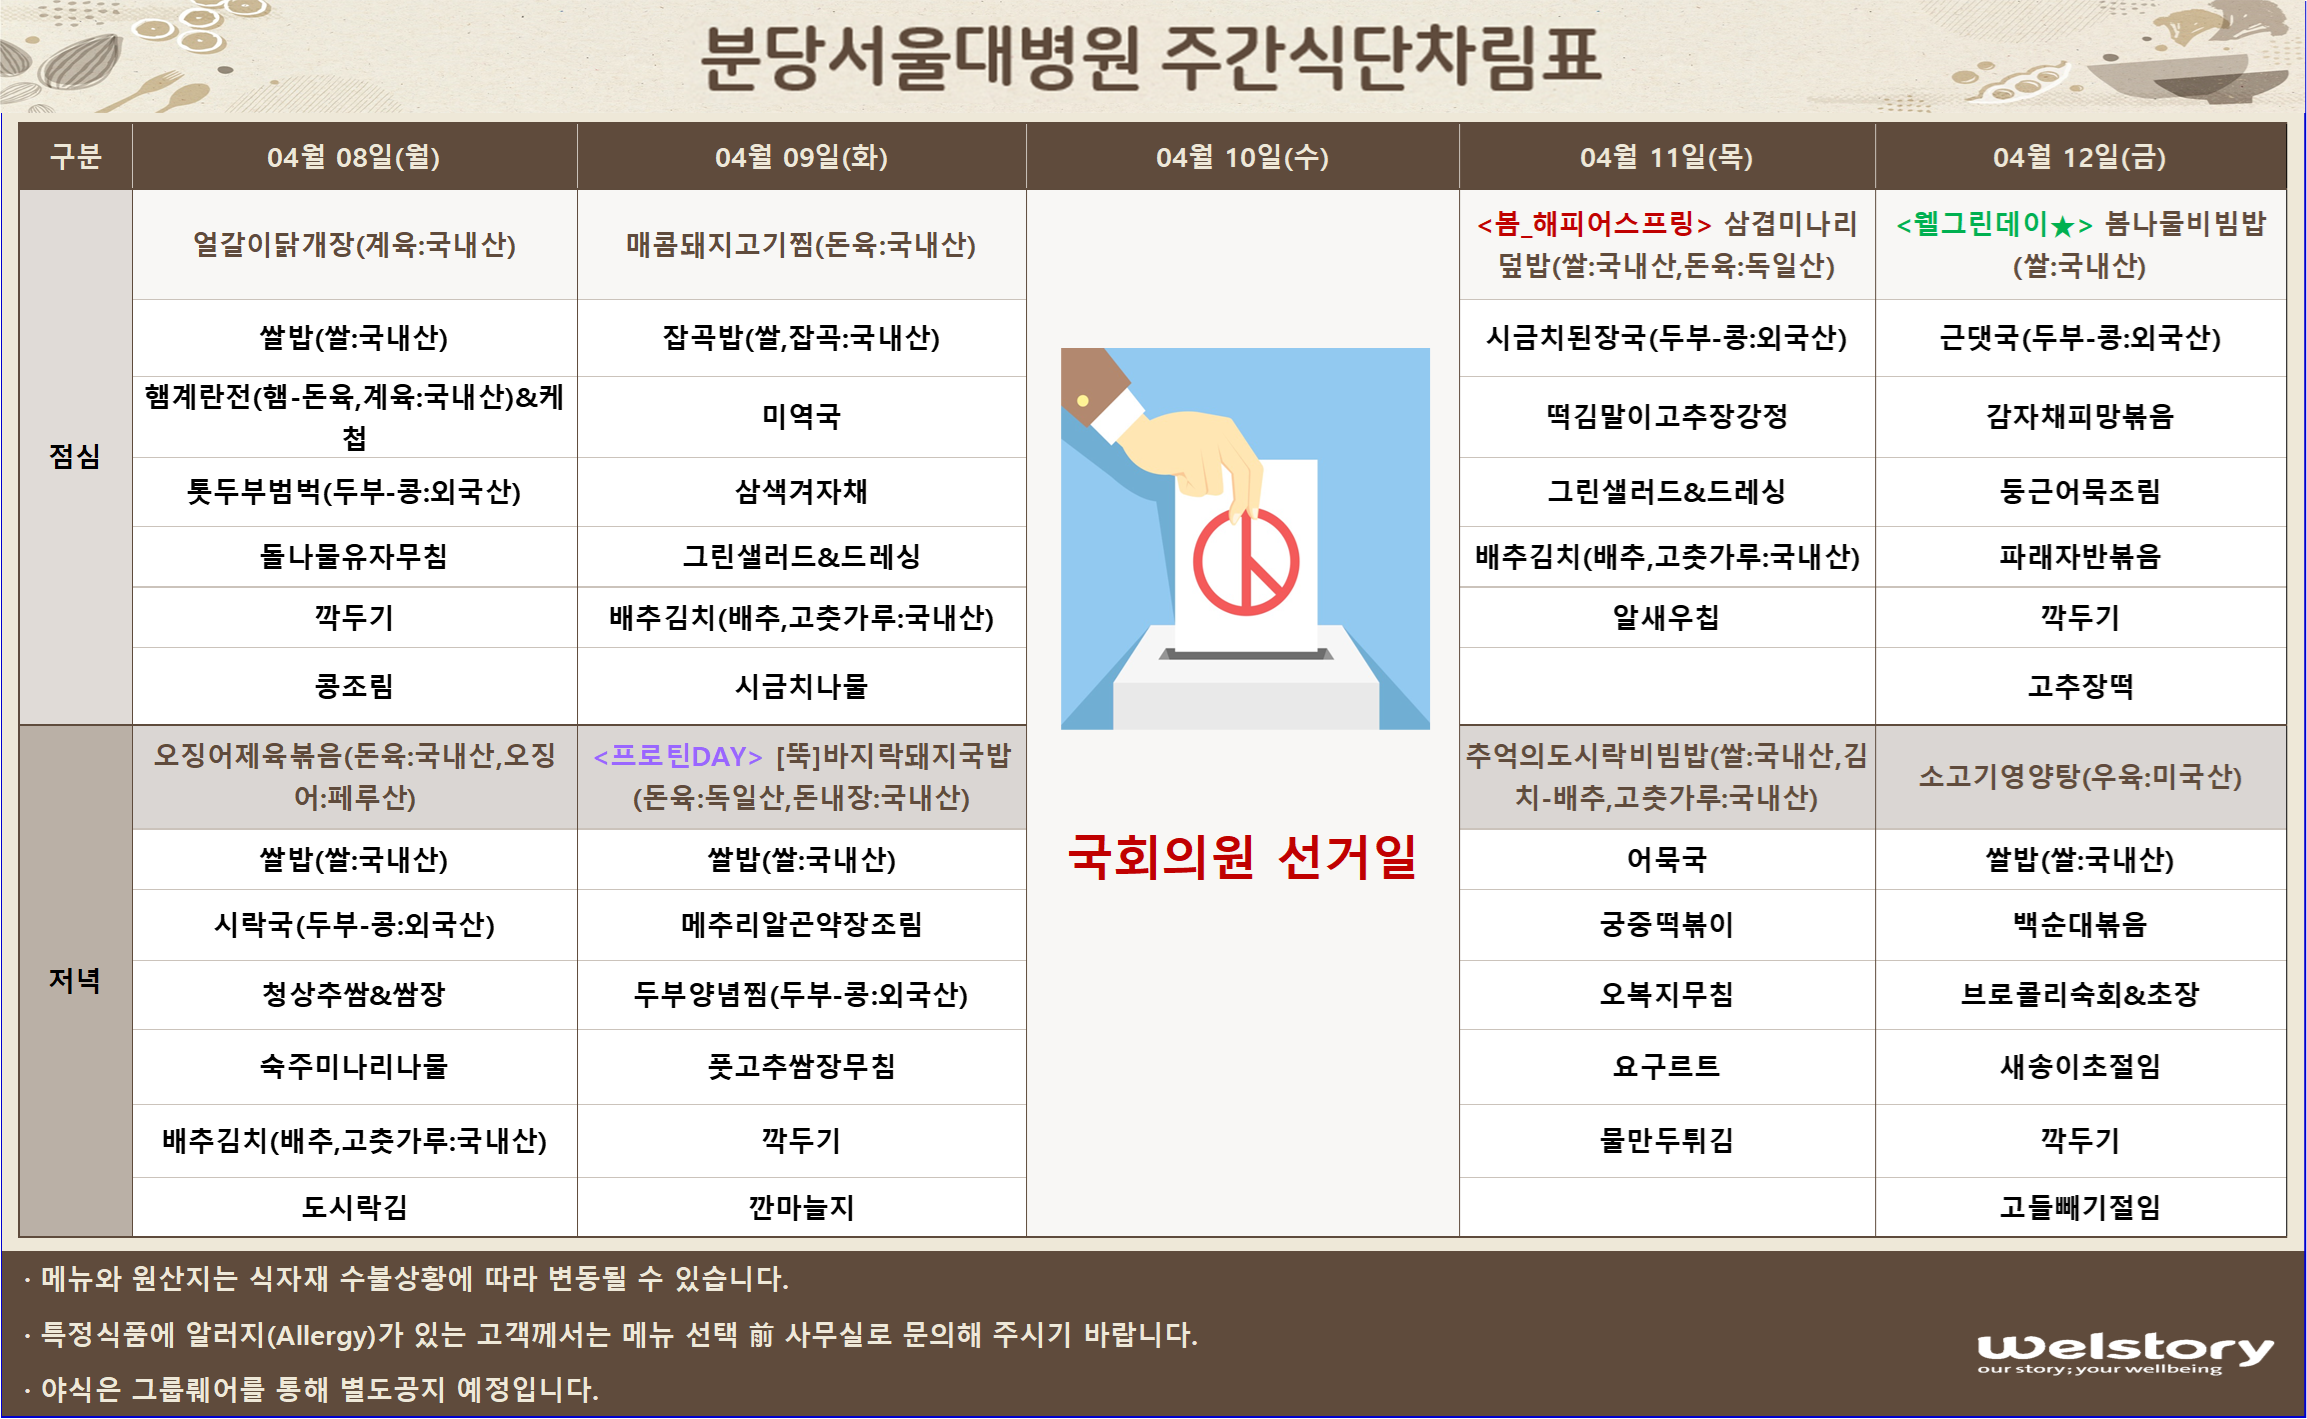
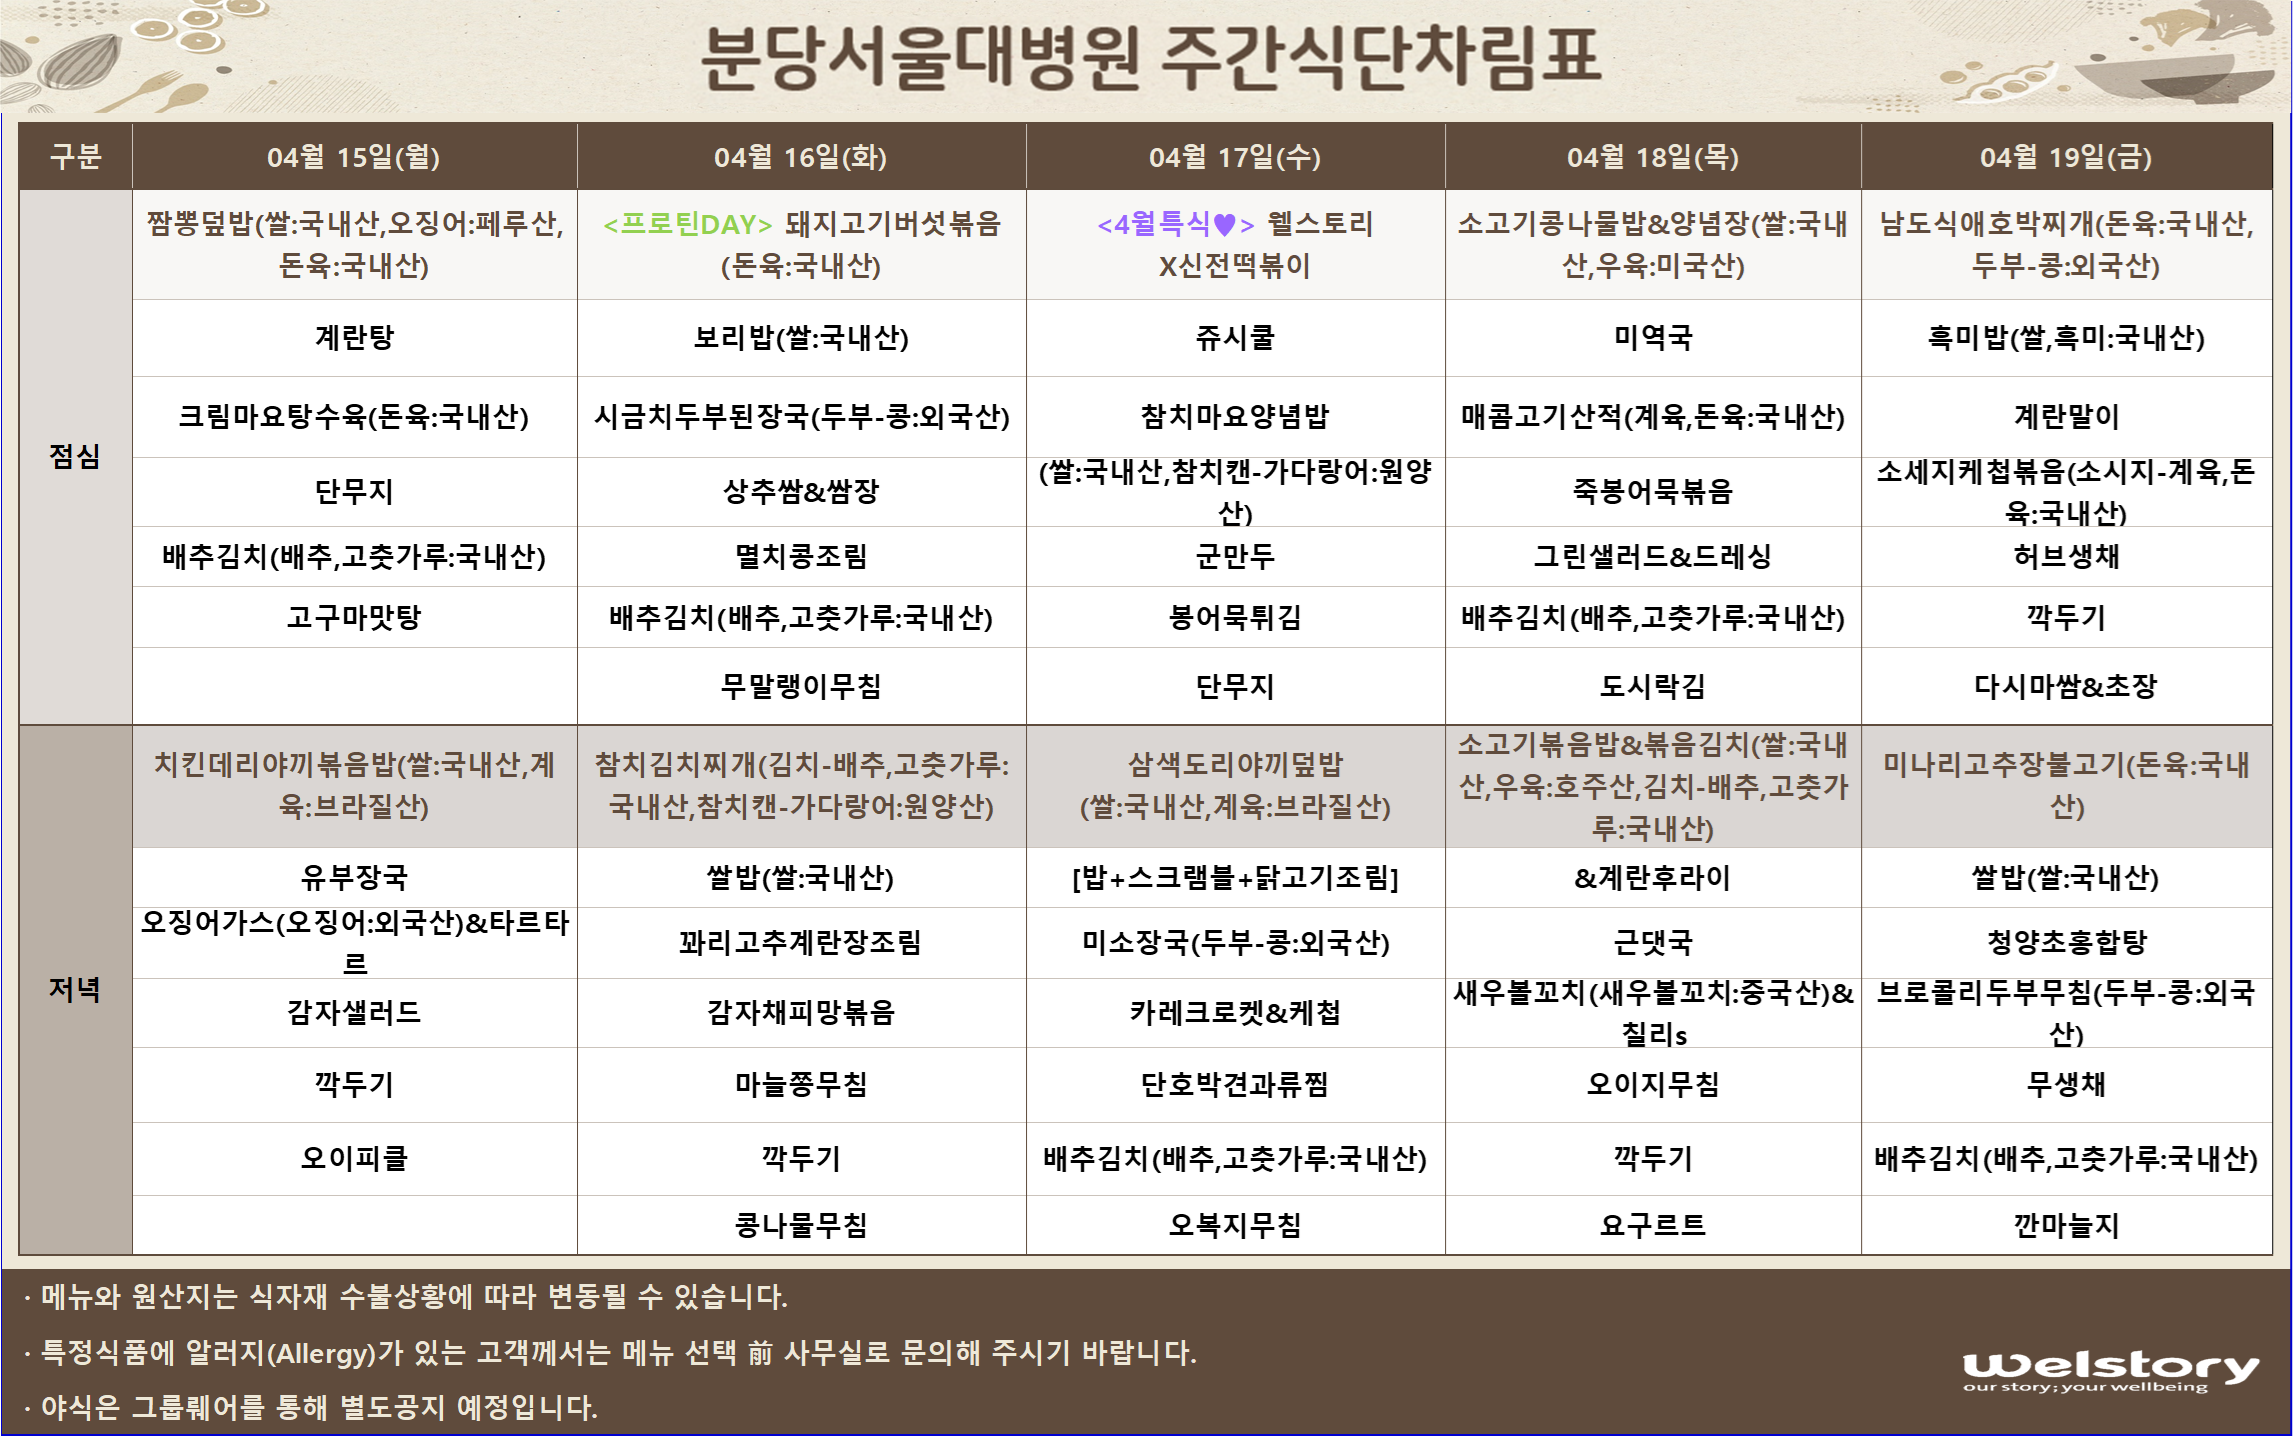
Add files via upload

diff --git a/6/index.html b/6/index.html
@@ -12,13 +12,13 @@
 <h2> 메뉴 업데이트는 주인장 여유가 되면 합니다. (이미지 확대해서 보세요) <br> </h2>
 
 <br>
-<h1> 4월 2주차 </h1>
+<h1> 4월 3주차 </h1>
 <img src="수술.png" width="100%">
 <br>
 
 
 
-<h6> Last update 2024/04/08  </h6>  
+<h6> Last update 2024/04/15  </h6>  
 <h1 >맛있게 드세요.  </h1> 
 
 </body>

diff --git a/1/index.html b/1/index.html
@@ -13,14 +13,14 @@
 
 
 <br>
-<h1> 4월 2주차  </h1>
+<h1> 4월 3주차  </h1>
 <img src="1동.png" width="100%">
 <br>
 
 
 
 
-<h6> Last update 2024/04/08  </h6>  
+<h6> Last update 2024/04/15  </h6>  
 <h1 >맛있게 드세요.  </h1> 
 
 </body>

diff --git a/2/index.html b/2/index.html
@@ -13,13 +13,13 @@
 
 
 <br>
-<h1> 4월 2주차  </h1>
+<h1> 4월 3주차  </h1>
 <img src="HIP.png" width="100%">
 <br>
 
 
 
-<h6> Last update 2024/04/08  </h6>  
+<h6> Last update 2024/04/15  </h6>  
 <h1 >맛있게 드세요.  </h1> 
 
 </body>
